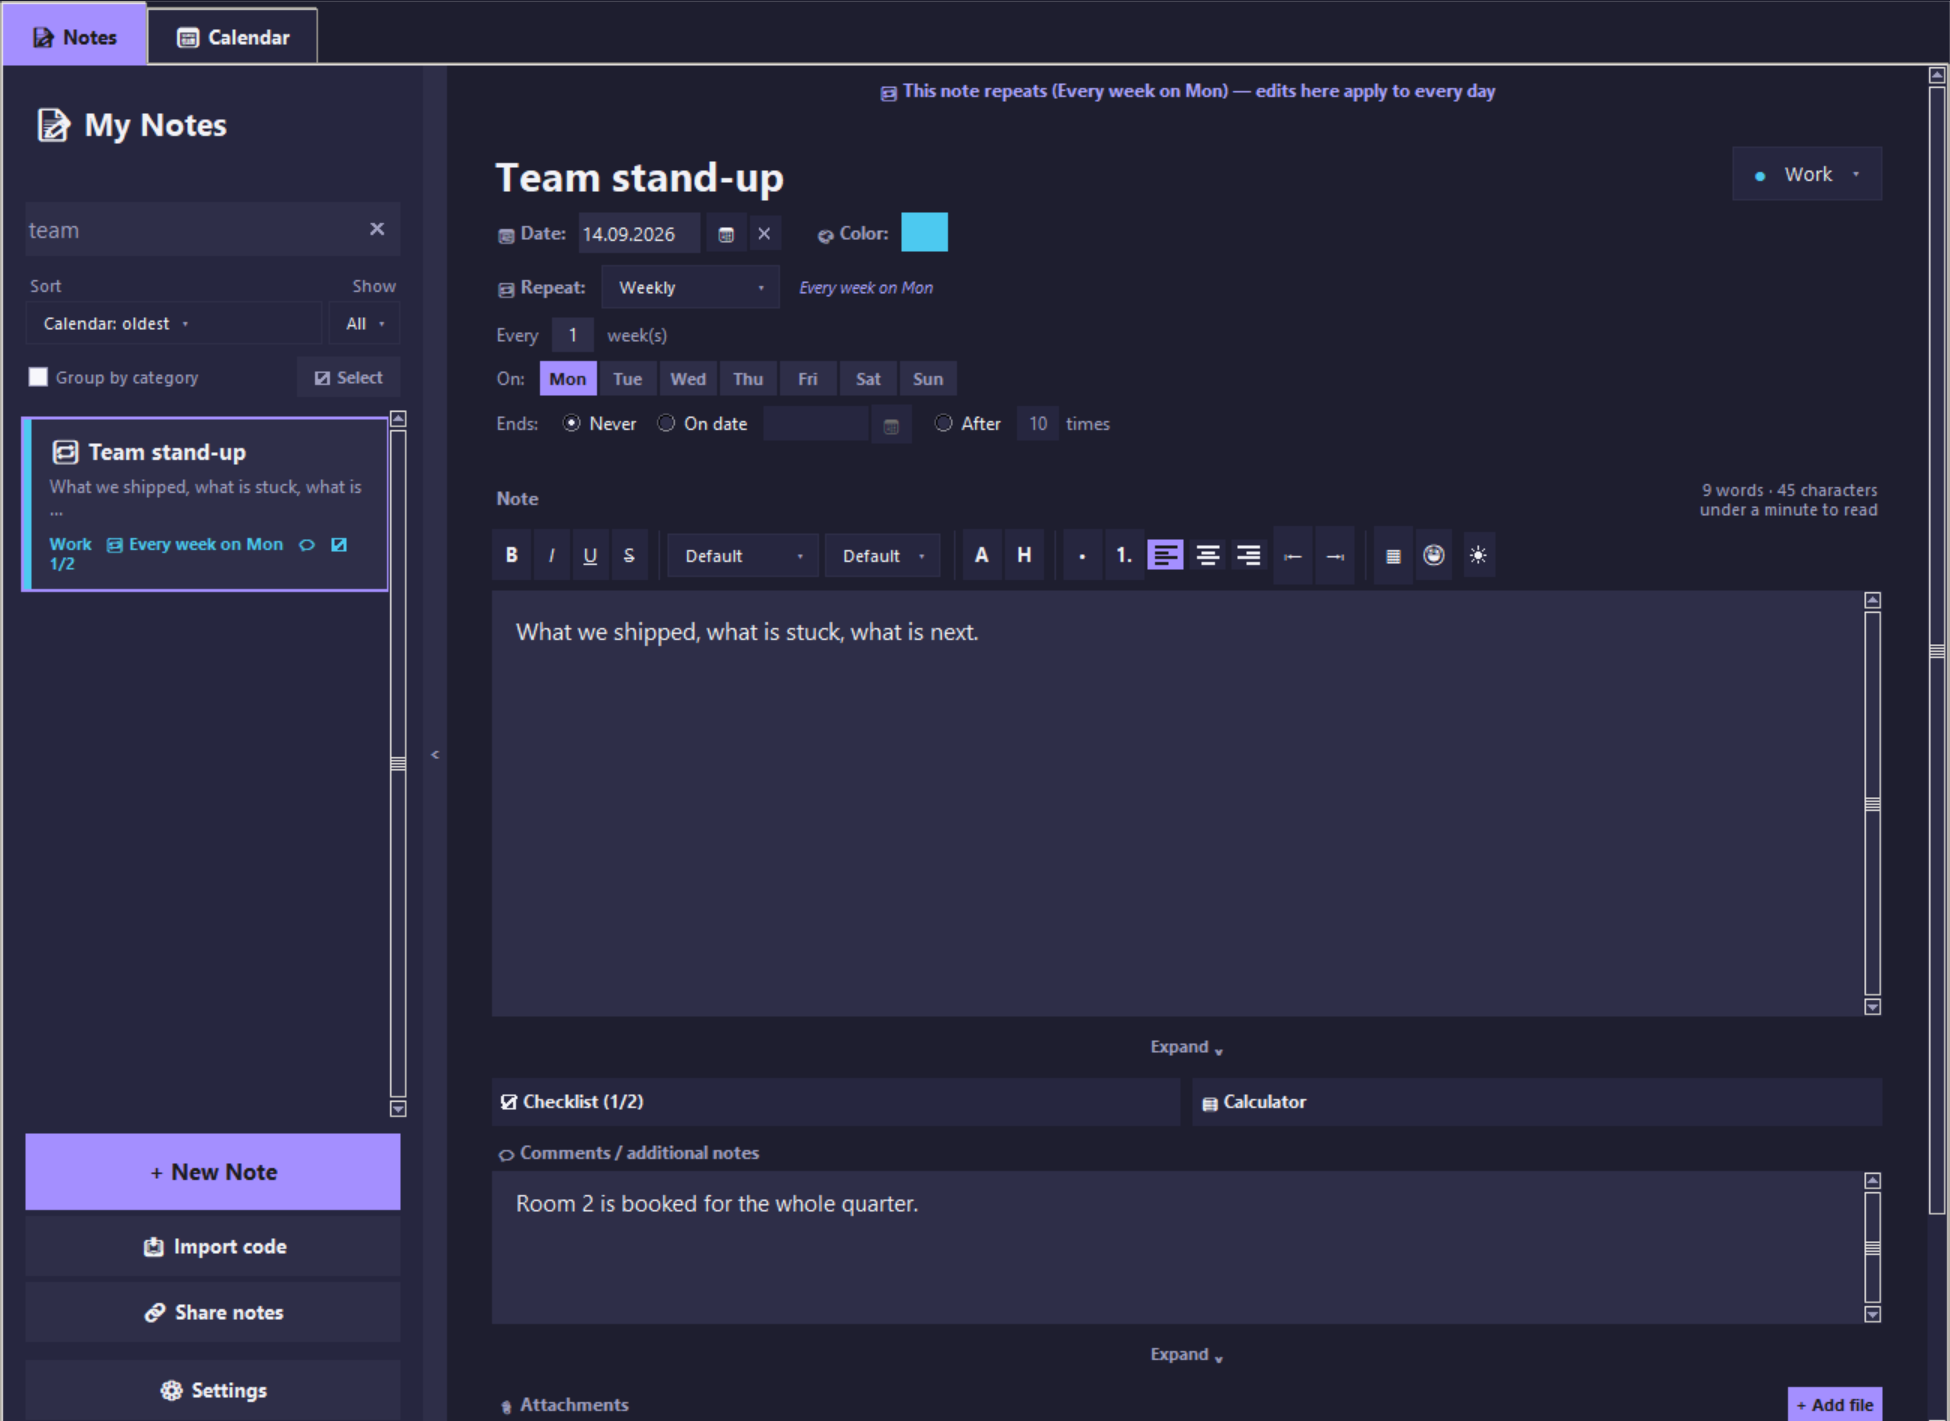
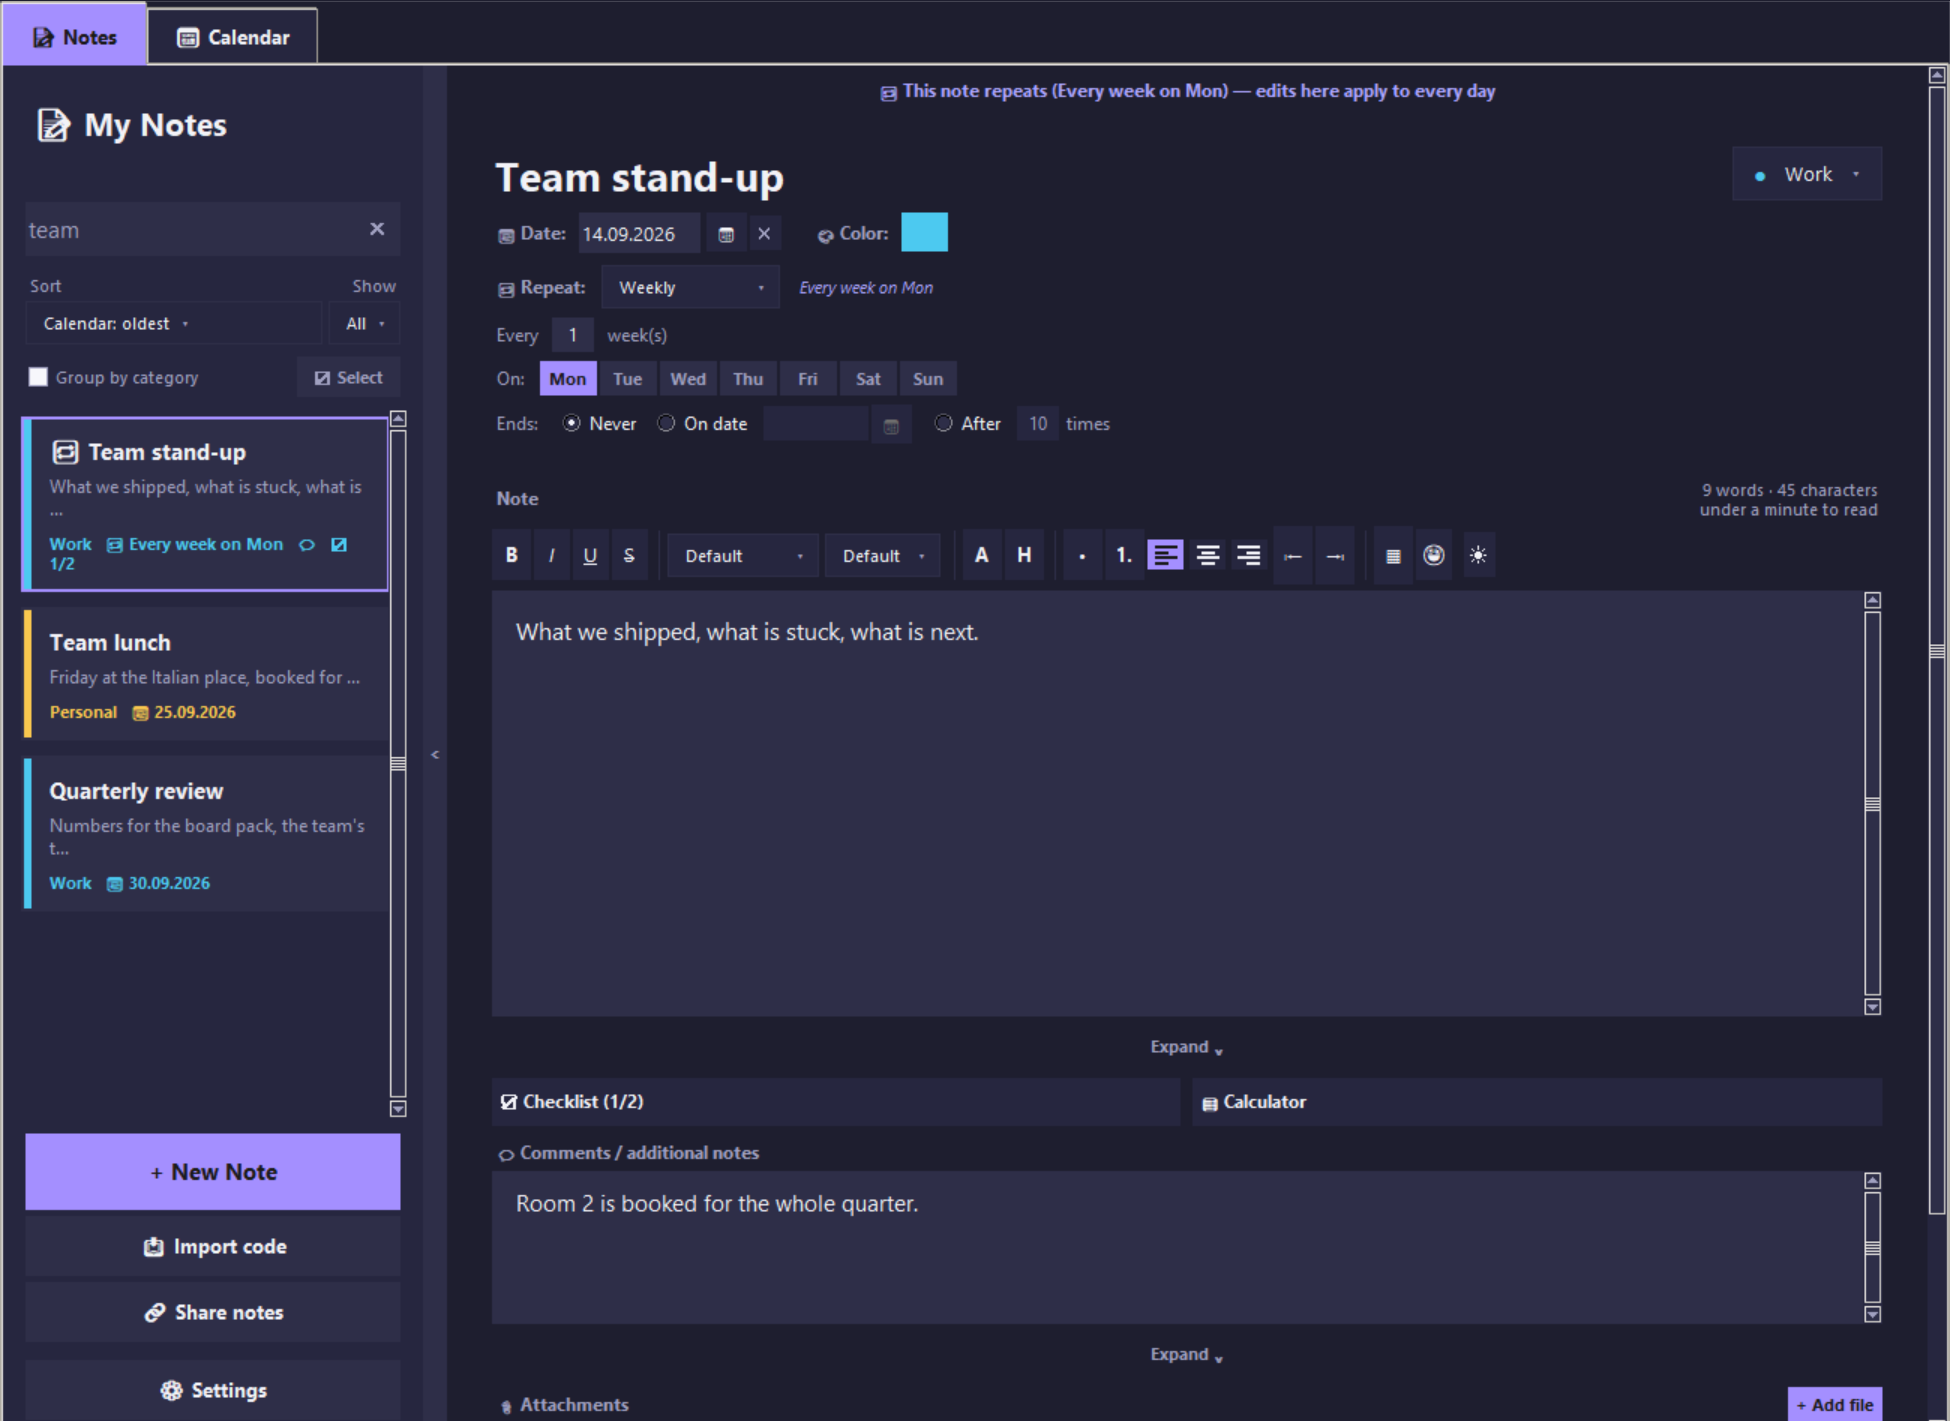
screenshots: a search with three matches, a light window, a search that finds nothing
The search picture matched one note and read as a picture of an open
note; it now finds three, in titles and in a body, in the chosen order.
Statistics was retaken with its "since" date inside the app's own
lifetime. Two new scenes: the main window on a light theme, for the
guide's Appearance section, and the note list when nothing matches.
The screenshots README lists them and dates the current set.

Changed region(s): [[0.0, 0.4335, 0.1846, 0.6502]]

diff --git a/tools/doc_screenshots.py b/tools/doc_screenshots.py
@@ -445,11 +445,17 @@ def search_and_sort():
     "Date (soonest)", a name that no longer exists, and is missing the
     seventh option entirely.
     """
-    for title, body, cat in (
-            ('Quarterly review', 'Numbers for the board pack.', 'Work'),
-            ('Reading list', 'Three books before the holidays.', 'Personal'),
-            ('Groceries', 'Everything for the weekend.', 'Personal')):
-        app.notes.append(_note(title=title, body=body, category=cat))
+    # Three matches -- in a title and in a body -- with dates, so the
+    # search narrows a real list and the sort visibly orders it; one match
+    # read to reviewers as a picture of an open note, not of a search.
+    for title, body, cat, date in (
+            ('Quarterly review', "Numbers for the board pack, the team's targets.",
+             'Work', '2026-09-30'),
+            ('Team lunch', 'Friday at the Italian place, booked for six.',
+             'Personal', '2026-09-25'),
+            ('Reading list', 'Three books before the holidays.', 'Personal', ''),
+            ('Groceries', 'Everything for the weekend.', 'Personal', '')):
+        app.notes.append(_note(title=title, body=body, category=cat, date=date))
     _weekly_note()
     app.search_var.set('team')
     app.refresh_note_list()
@@ -583,6 +589,34 @@ def main_window():
     _demo_notebook()
     _table_note()
     capture('main-window')
+
+
+@scene('main-window-light')
+def main_window_light():
+    """The hero's window on a light theme, for the guide's Appearance: the
+    stills showed the main screen in the dark default only."""
+    _demo_notebook()
+    _table_note()
+    was = app.theme_name
+    app.set_theme('light')
+    pump(10)
+    capture('main-window-light')
+    app.set_theme(was)
+    pump()
+
+
+@scene('no-match')
+def no_match():
+    """The note list when nothing matches the search: what the list says
+    instead of going blank."""
+    _demo_notebook()
+    app.search_var.set('passport')
+    app.refresh_note_list()
+    pump(10)
+    capture('no-match')
+    app.search_var.set('')
+    app.refresh_note_list()
+    pump()
 
 
 @scene('grouped-notes')

diff --git a/docs/screenshots/README.md b/docs/screenshots/README.md
@@ -60,17 +60,20 @@ Rules that keep the set reading as one app:
 - **One theme throughout** — a partial refresh in another theme silently
   produces a mixed set.
 
-**Current set:** retaken 2026-10-03 in the default dark (purple) theme, all
+**Current set:** retaken 2026-10-08 in the default dark (purple) theme, all
 twenty-two and the demo GIF by `tools/doc_screenshots.py`, on app version
-0.84.340 — dates shown day first, the search box showing its hint, no
-scrollbar under the window, both calendar pictures on the month they
-stage and nothing cut at the bottom edge; update this line whenever the
-set is recaptured.
+0.89.371 — the open tab raised, the open note's card ringed, dates shown
+day first, both calendar pictures on the month they stage and nothing cut
+at the bottom edge. On 2026-10-09 the search picture was retaken with three
+matches, Statistics with a "since" date inside the app's own lifetime, and
+two were added (the main window on a light theme, a search that matches
+nothing). Update this line whenever the set is recaptured.
 
 | Filename | What to capture |
 |---|---|
 | `demo.gif` | The README's moving picture, made by the `demo` scene: a note written, given a table and saved; the month on the calendar; the same note on a light theme |
 | `main-window.png` | The main window, Notes tab: sidebar, a note open with a table, and the full formatting toolbar including the ☀/🌙 theme button at its right end |
+| `main-window-light.png` | The same window on a light theme (Soft Lavender), for the guide's Appearance section |
 | `note-editor.png` | A note open in the editor with some content, the toolbar, and the Checklist + Calculator bars below |
 | `formatting-toolbar.png` | The formatting toolbar close-up, with bold/italic/coloured/highlighted text in the body — and the ☀/🌙 theme button visible at the right end |
 | `tables.png` | A table in a note with a highlighted header row (ideally a checkbox cell and a "Tab. N" caption too) |
@@ -78,7 +81,8 @@ set is recaptured.
 | `checklist.png` | The checklist open beside the calculator, with a mix of checked and unchecked items and the Expand bar |
 | `calculator.png` | The calculator open, with an expression entered and the history showing a calculation |
 | `emoji-picker.png` | The emoji picker open over a text field |
-| `search-and-sort.png` | The search box and sort dropdown, ideally mid-search |
+| `search-and-sort.png` | The search box and sort dropdown, mid-search, with several matches (in titles and in a body) in the chosen order |
+| `no-match.png` | The note list when nothing matches the search, saying so rather than going blank |
 | `grouped-notes.png` | The note list with "Group by category" on, showing at least two groups (one collapsed, one expanded, if possible) |
 | `categories-panel.png` | Settings → Categories, with a few categories listed |
 | `templates-panel.png` | Settings → Templates, with at least one template listed |

diff --git a/docs/USER_GUIDE.md b/docs/USER_GUIDE.md
@@ -513,6 +513,11 @@ next save. Custom order is the one sort that means "where I put it".*
 
 ![Search and sort](screenshots/search-and-sort.png)
 
+When nothing matches, the list says so rather than going blank, and the **✕** in the search box
+brings every note back:
+
+![A search that matches nothing](screenshots/no-match.png)
+
 **Group by category** (checkbox above the note list) clusters the list under collapsible category
 headers instead of one flat list — click a group's header to collapse or expand it; the state is
 remembered.
@@ -943,6 +948,8 @@ keys that only mean something inside a list, in the find bar, or on the note lis
 
 Switch between Dark and Light mode, and pick from four variants of each, in Settings → Appearance.
 The choice is remembered the next time you open the app.
+
+![The main window on a light theme, Soft Lavender](screenshots/main-window-light.png)
 
 Every theme is measured so its coloured words and buttons stay readable. In the editor, **Save is
 the one filled button** and Delete is a quiet one with red words. Red words on a quiet button mean
